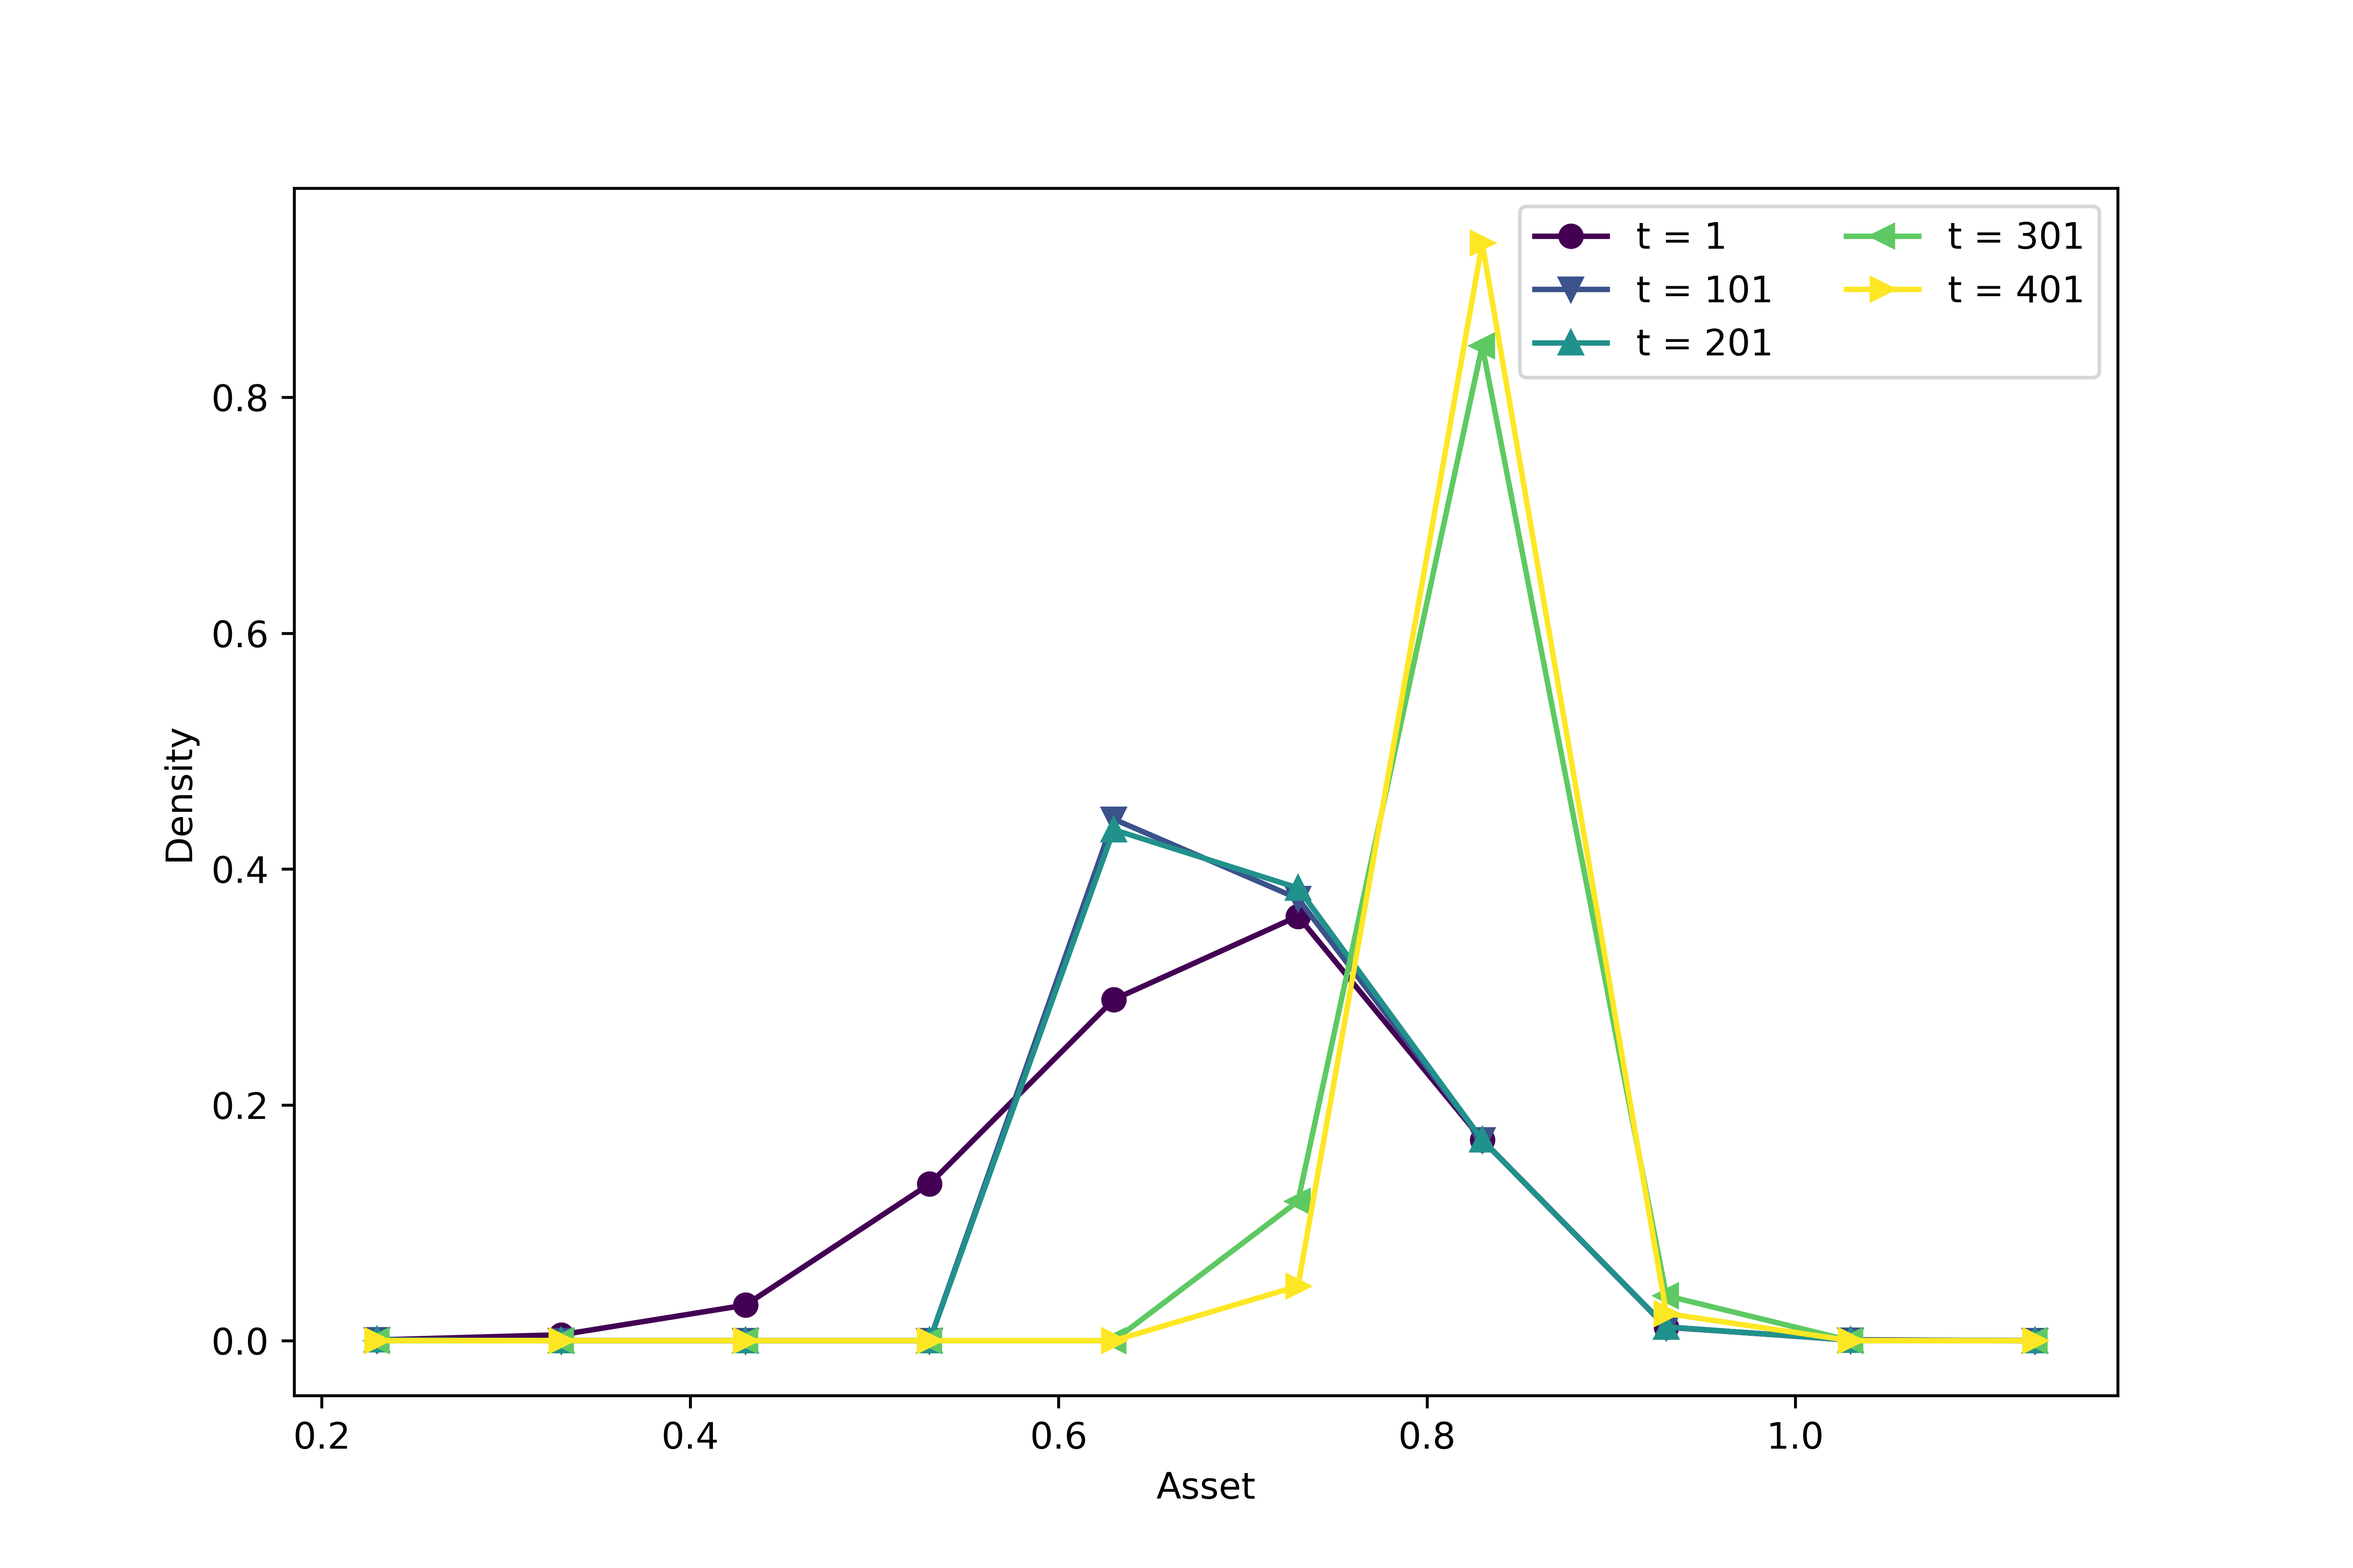
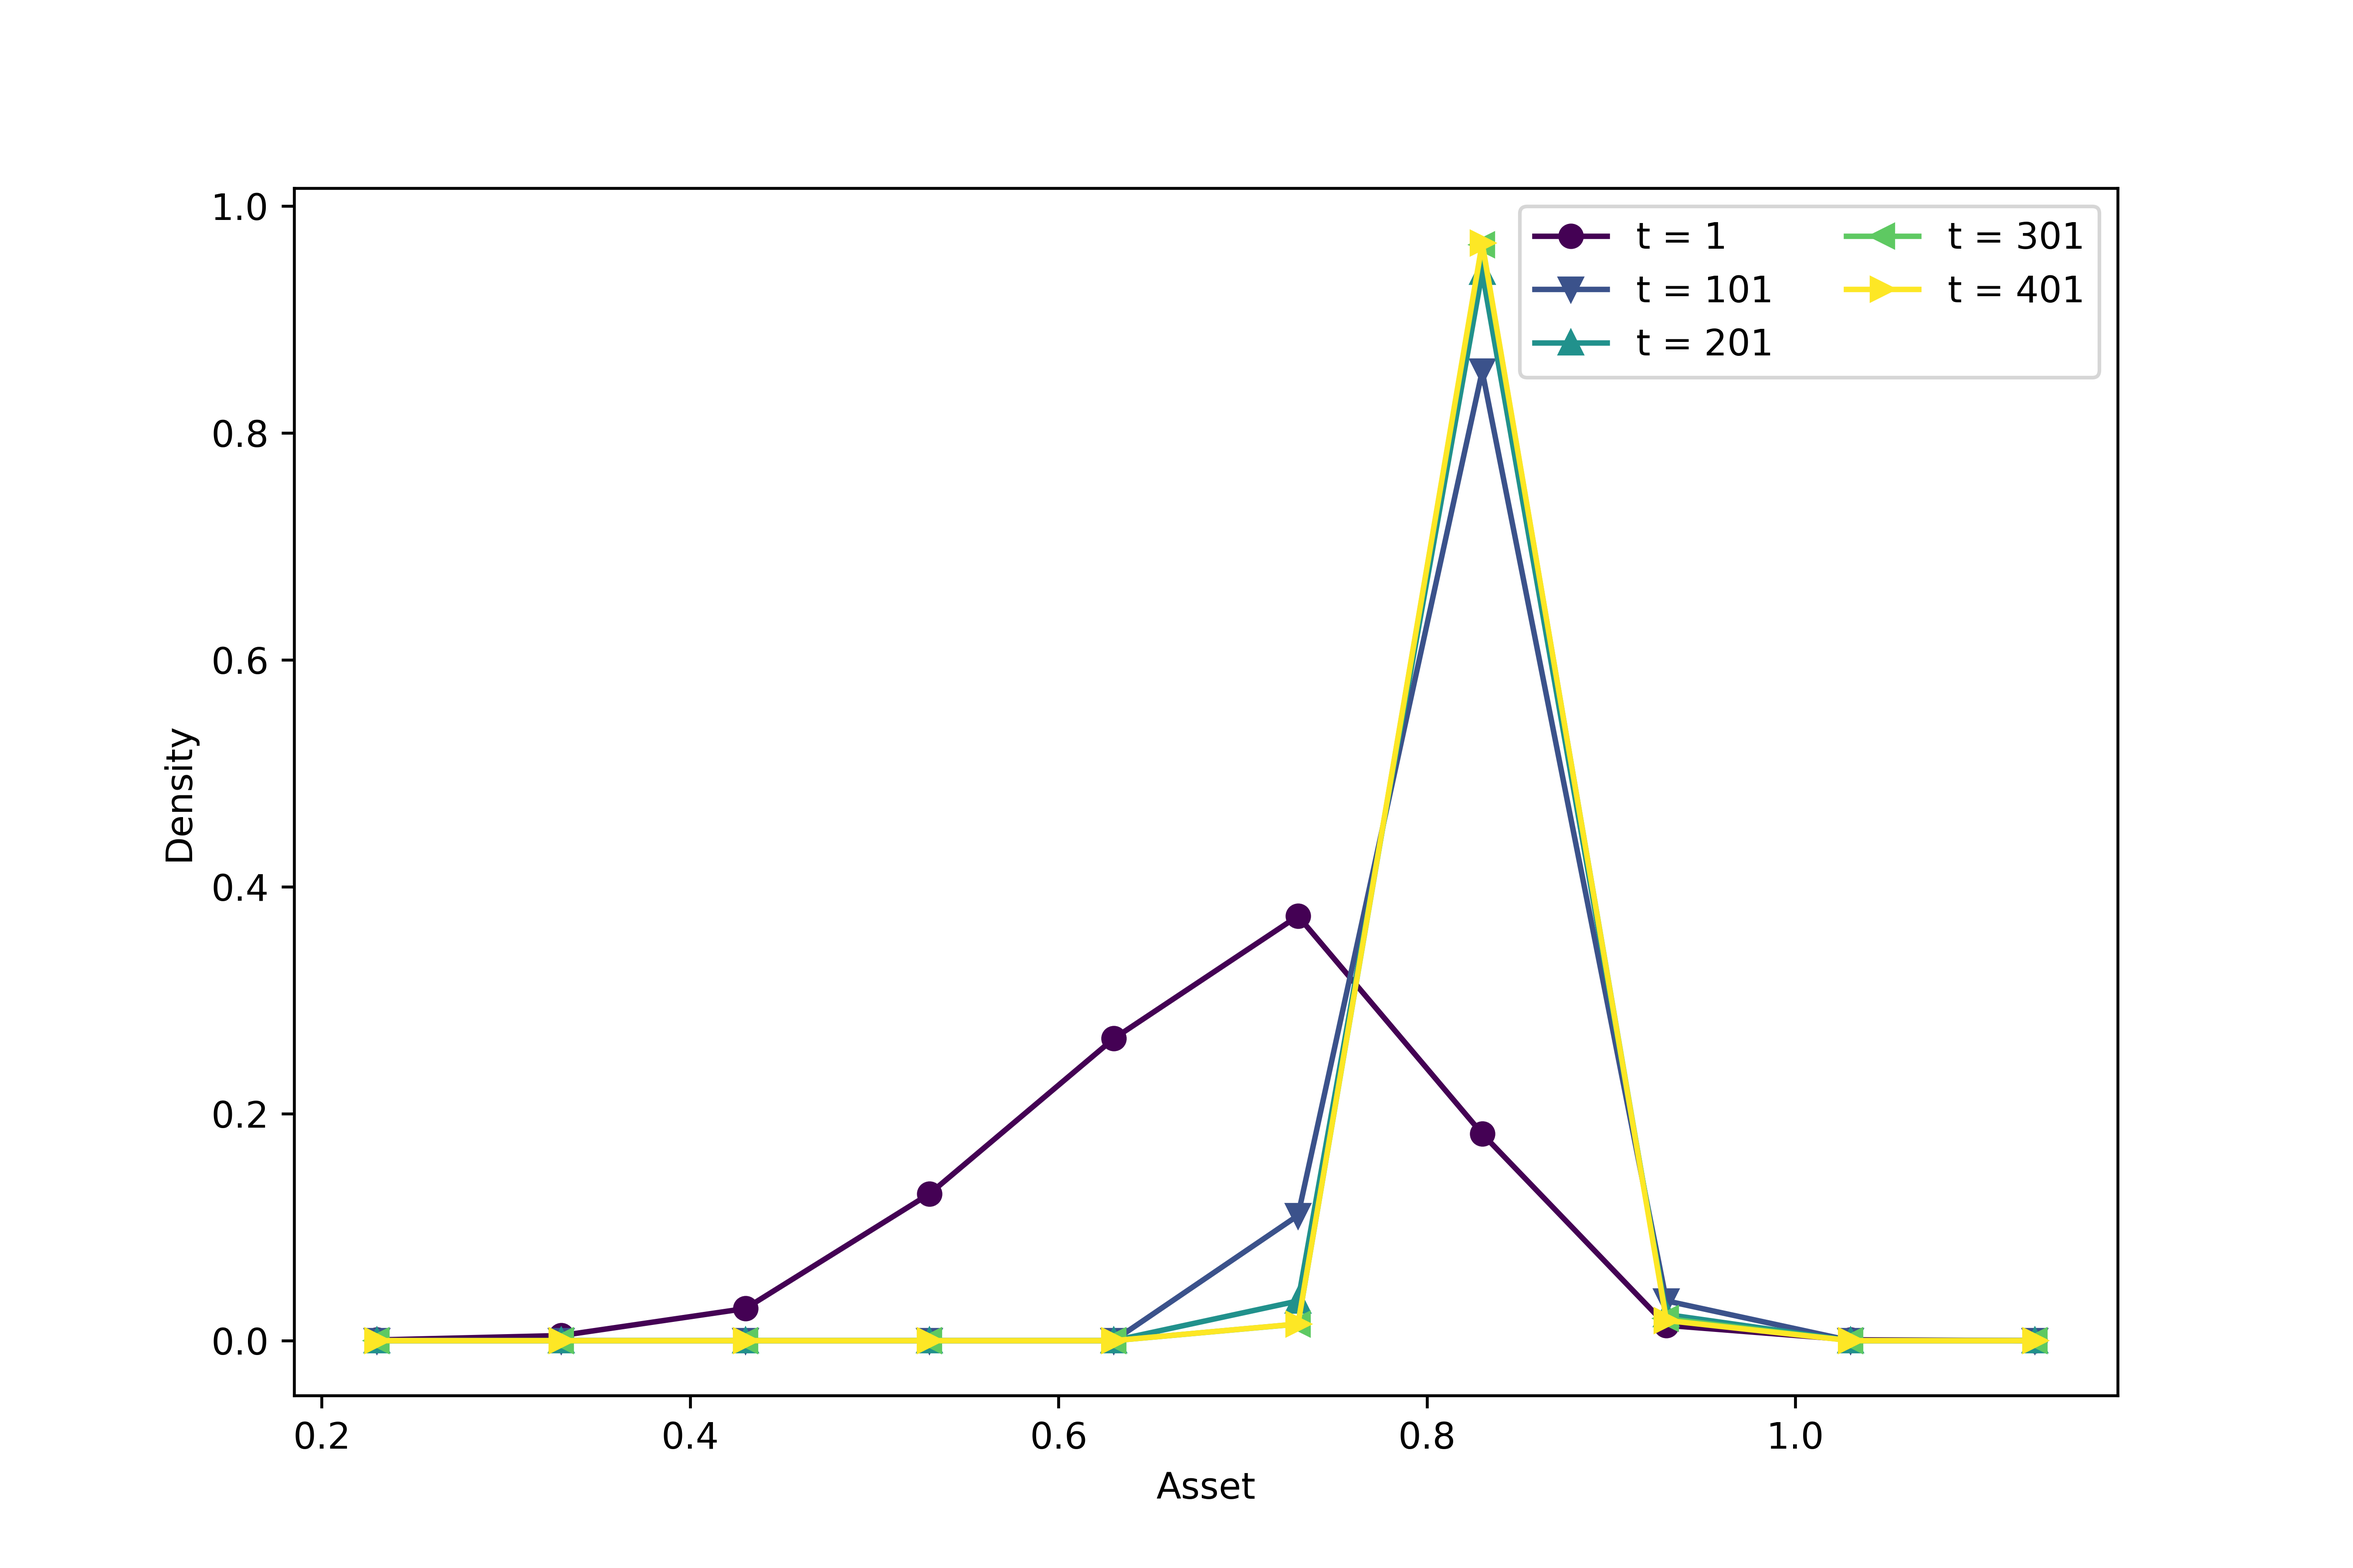
almost_finished_euler_dl

diff --git a/module_training_euler.py b/module_training_euler.py
@@ -75,8 +75,7 @@ class EulerTrainer:
             losses.append(np.log(avg_loss + 1e-10)) # Avoid log(0)
             self.scheduler.step(avg_loss)
             
-            if epoch % 10 == 0:
-                print(f"Epoch {epoch}: Log Euler Loss = {np.log(avg_loss + 1e-10):.4f}")
+            print(f"Epoch {epoch}: Log Euler Loss = {np.log(avg_loss + 1e-10):.4f}")
 
         # Plotting
         plt.figure()
@@ -199,18 +198,22 @@ class EulerTrainer:
         rhs_expected = (probs * mu_next_reshaped).sum(dim=1, keepdim=True)
 
         # ==========================
-        # 4. Loss Calculation
+        # 4. Loss Calculation (Using Fischer-Burmeister)
         # ==========================
+
+        val_a_prime = x_a1 
+        
         lhs = x_c0 ** (-config.sigma)
-        residuals = 1 - rhs_expected / lhs
+        val_euler_diff = lhs - rhs_expected
         
-        # Borrowing Constraint Handling
-        is_constrained = x_y0_policy[:, 0] < 1e-3
-        want_to_borrow = residuals > 0 # LHS > RHS means current C is too low (MU too high), want to borrow more
-        mask_ignore = is_constrained.unsqueeze(1) & want_to_borrow
+        val_euler_relative = 1.0 - rhs_expected / lhs
+
+        # 添加一个极小值 eps 防止 sqrt(0) 梯度 NaN
+        eps = 1e-8
+        fb_func = val_a_prime + val_euler_relative - torch.sqrt(val_a_prime**2 + val_euler_relative**2 + eps)
         
-        weights = torch.ones_like(residuals)
-        weights[mask_ignore] = 0.0
+        # Loss 是 FB 函数的平方
+        loss = torch.mean(fb_func ** 2)
         
-        loss = torch.mean((weights * residuals) ** 2)
+        return loss
         return loss
